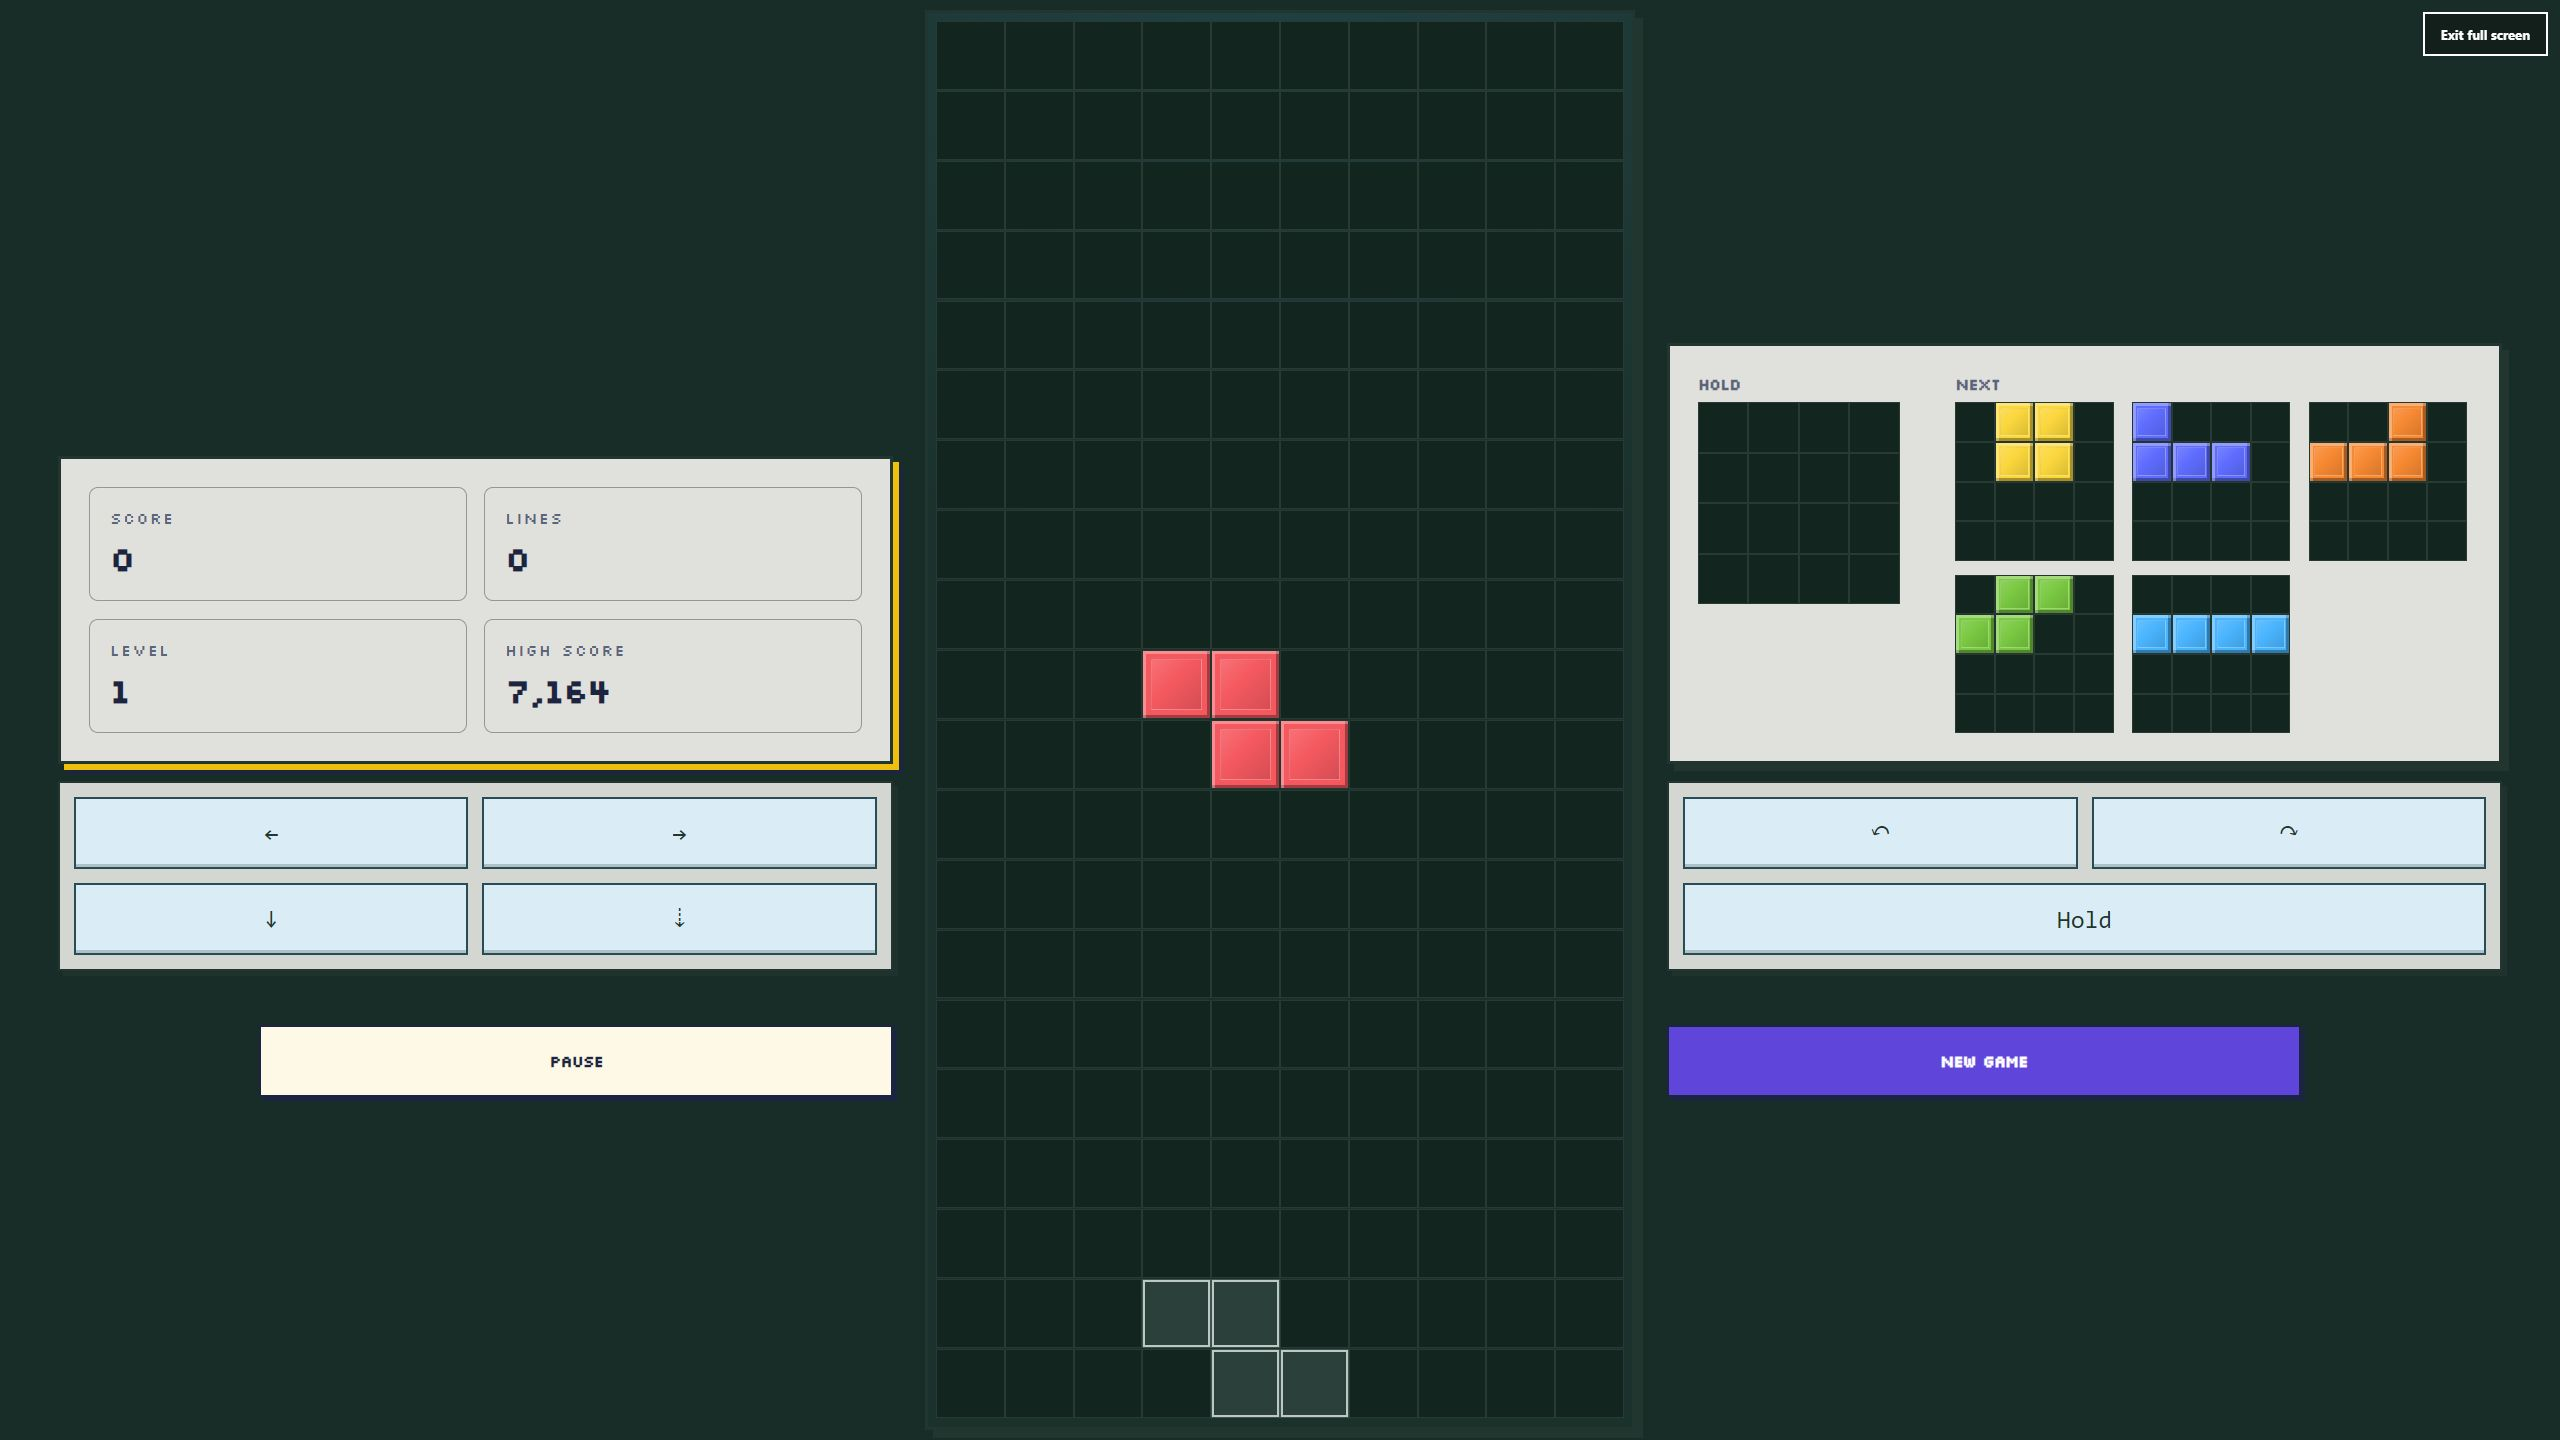
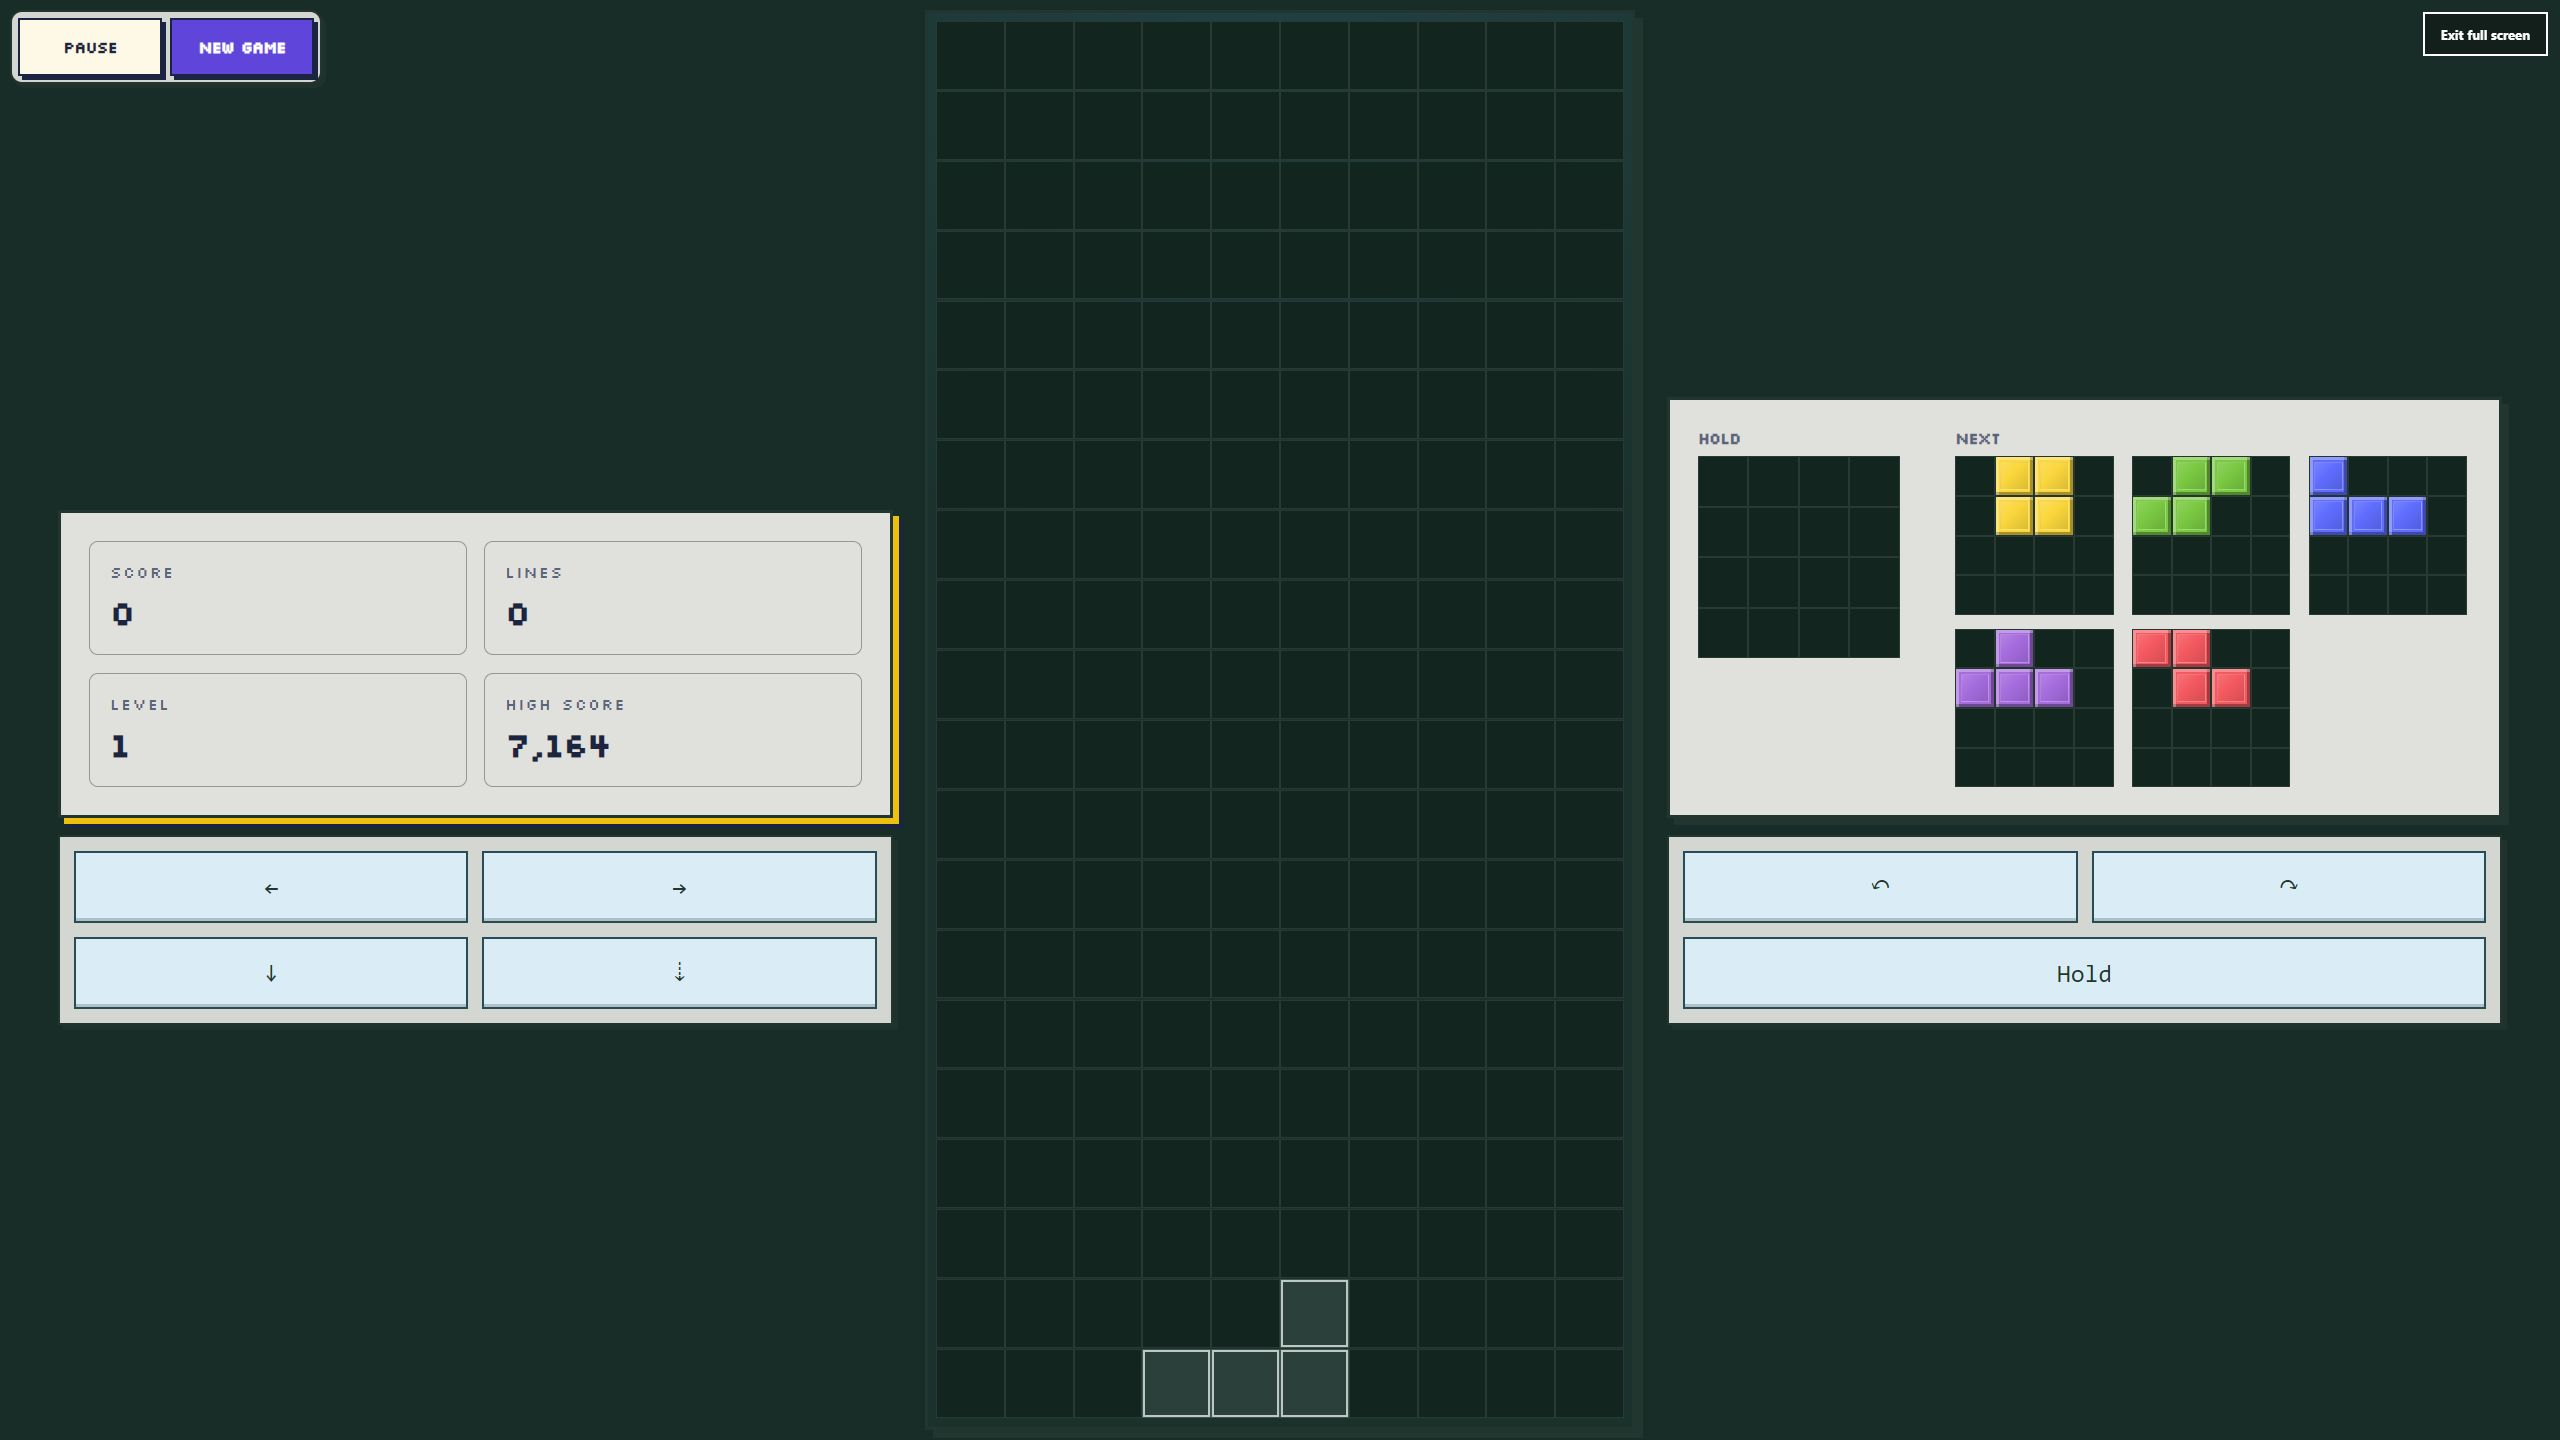
Move Tetris utility actions away from controls

diff --git a/tetris/styles.css b/tetris/styles.css
@@ -70,10 +70,8 @@
     .game-tetris .game-layout:fullscreen .mini-board,.game-tetris .game-layout.is-fullscreen .mini-board{width:min(100%,14vmin)}
     .game-tetris .game-layout:fullscreen .next-list,.game-tetris .game-layout.is-fullscreen .next-list{display:grid;grid-template-columns:repeat(3,minmax(0,1fr));gap:clamp(7px,1vmin,14px)}
     .game-tetris .game-layout:fullscreen .next-list .mini-board,.game-tetris .game-layout.is-fullscreen .next-list .mini-board{width:min(100%,11vmin)}
-    .game-tetris .game-layout:fullscreen .control-actions,.game-tetris .game-layout.is-fullscreen .control-actions{display:contents}
-    .game-tetris .game-layout:fullscreen .control-actions button,.game-tetris .game-layout.is-fullscreen .control-actions button{box-sizing:border-box;width:min(var(--tetris-fullscreen-rail),44vmin);min-height:clamp(48px,5vmin,72px);margin-top:clamp(20px,2.5vmin,36px)}
-    .game-tetris .game-layout:fullscreen .control-actions button:first-child,.game-tetris .game-layout.is-fullscreen .control-actions button:first-child{grid-column:1;grid-row:4;justify-self:end}
-    .game-tetris .game-layout:fullscreen .control-actions button:last-child,.game-tetris .game-layout.is-fullscreen .control-actions button:last-child{grid-column:3;grid-row:4;justify-self:start}
+    .game-tetris .game-layout:fullscreen .control-actions,.game-tetris .game-layout.is-fullscreen .control-actions{position:fixed;z-index:11;top:max(10px,env(safe-area-inset-top));left:max(10px,env(safe-area-inset-left));display:flex;gap:8px;padding:6px;background:color-mix(in srgb,var(--tetris-panel) 94%,transparent);border:2px solid var(--tetris-border);border-radius:12px;box-shadow:4px 4px 0 color-mix(in srgb,var(--tetris-shadow) 72%,transparent)}
+    .game-tetris .game-layout:fullscreen .control-actions button,.game-tetris .game-layout.is-fullscreen .control-actions button{box-sizing:border-box;flex:none;width:auto;min-width:clamp(104px,10vmin,144px);min-height:clamp(44px,4vmin,58px);margin:0;padding:8px 16px}
     :is([data-arcade-theme="playful"],[data-arcade-theme="cabinet"]) .game-tetris .game-layout:fullscreen :is(.control-cluster,.touch-controls button),:is([data-arcade-theme="playful"],[data-arcade-theme="cabinet"]) .game-tetris .game-layout.is-fullscreen :is(.control-cluster,.touch-controls button){border-radius:0}
 }
 @media (orientation:landscape) and (max-height:620px){
@@ -88,5 +86,6 @@
     .game-tetris .game-layout:fullscreen .next-list .mini-board,.game-tetris .game-layout.is-fullscreen .next-list .mini-board{width:min(48px,100%)}
     .game-tetris .game-layout:fullscreen .control-cluster,.game-tetris .game-layout.is-fullscreen .control-cluster{gap:5px;padding:5px;border-width:2px;box-shadow:3px 3px 0 color-mix(in srgb,var(--tetris-shadow) 72%,transparent)}
     .game-tetris .game-layout:fullscreen .touch-controls button,.game-tetris .game-layout.is-fullscreen .touch-controls button{min-height:39px;padding:4px;font-size:15px}
-    .game-tetris .game-layout:fullscreen .control-actions button,.game-tetris .game-layout.is-fullscreen .control-actions button{width:100%;min-height:44px;margin-top:8px}
+    .game-tetris .game-layout:fullscreen .control-actions,.game-tetris .game-layout.is-fullscreen .control-actions{gap:5px;padding:4px}
+    .game-tetris .game-layout:fullscreen .control-actions button,.game-tetris .game-layout.is-fullscreen .control-actions button{min-width:92px;min-height:44px;margin:0;padding:5px 10px}
 }

diff --git a/tests/tetris.test.js b/tests/tetris.test.js
@@ -163,7 +163,8 @@ test('Tetris offers a safe-area-aware full-screen board and command deck', () =>
     assert.match(styles, /piece-controls button:last-child[^}]*grid-column:1\/-1/);
     assert.match(styles, /game-layout:fullscreen \.mini-board[^}]*14vmin/);
     assert.match(styles, /next-list \.mini-board[^}]*11vmin/);
-    assert.match(styles, /control-actions button[^}]*width:min\(var\(--tetris-fullscreen-rail\),44vmin\)[^}]*margin-top:clamp\(20px,2\.5vmin,36px\)/);
+    assert.match(styles, /game-layout:fullscreen \.control-actions[^}]*position:fixed[^}]*top:max\(10px,env\(safe-area-inset-top\)\)[^}]*left:max\(10px,env\(safe-area-inset-left\)\)/);
+    assert.match(styles, /control-actions button[^}]*min-width:clamp\(104px,10vmin,144px\)[^}]*min-height:clamp\(44px,4vmin,58px\)/);
     assert.match(styles, /touch-controls button[^}]*min-height:44px/);
     assert.match(styles, /game-layout:fullscreen \.touch-controls button[^}]*background:color-mix\([^}]*var\(--tetris-i\)/);
     assert.match(styles, /topbar-actions \.icon-button\{[^}]*min-width:44px;min-height:44px/);

diff --git a/docs/tetris.md b/docs/tetris.md
@@ -47,8 +47,9 @@ Full screen keeps the 10×20 board centered at its correct proportions. Score
 and progress sit to its left, hold and enlarged next-piece previews sit to its
 right, and both rails scale with the shorter viewport dimension instead of
 staying at their regular-page size. Related touch actions live in compact
-movement/drop and rotation/hold decks, with pause and restart directly beneath
-them. The layout uses dynamic viewport and safe-area insets, with a CSS fallback
+movement/drop and rotation/hold decks. Pause and restart move to a separate
+safe-area-aware utility bar at the top-left, outside the player's hand-rest
+zones. The layout uses dynamic viewport and safe-area insets, with a CSS fallback
 for installed browsers that cannot use the native Fullscreen API.
 
 ## Clears and high scores

diff --git a/docs/architecture.md b/docs/architecture.md
@@ -115,7 +115,7 @@ interface. At phone widths, the controller's board and status rail use an
 approximately 70/30 viewport-aware layout while the touch controls remain
 available. Full screen preserves and centers the portrait board, balancing
 viewport-proportional status and preview rails with grouped touch-control decks
-around it.
+around it. Match-interrupting actions remain in a separate top utility zone.
 Line-clear and live-record celebrations are non-authoritative,
 non-blocking presentation driven by mechanics events and local best-score state.
 Random magic breakers and motion-assisted stack compaction are mechanics-owned,
